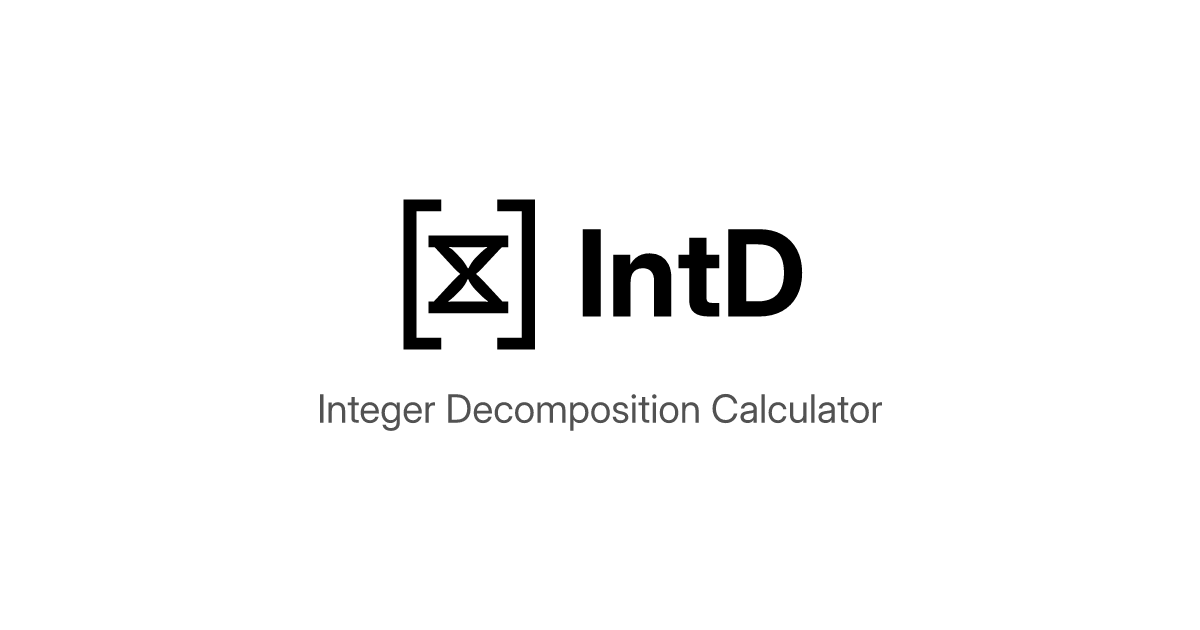
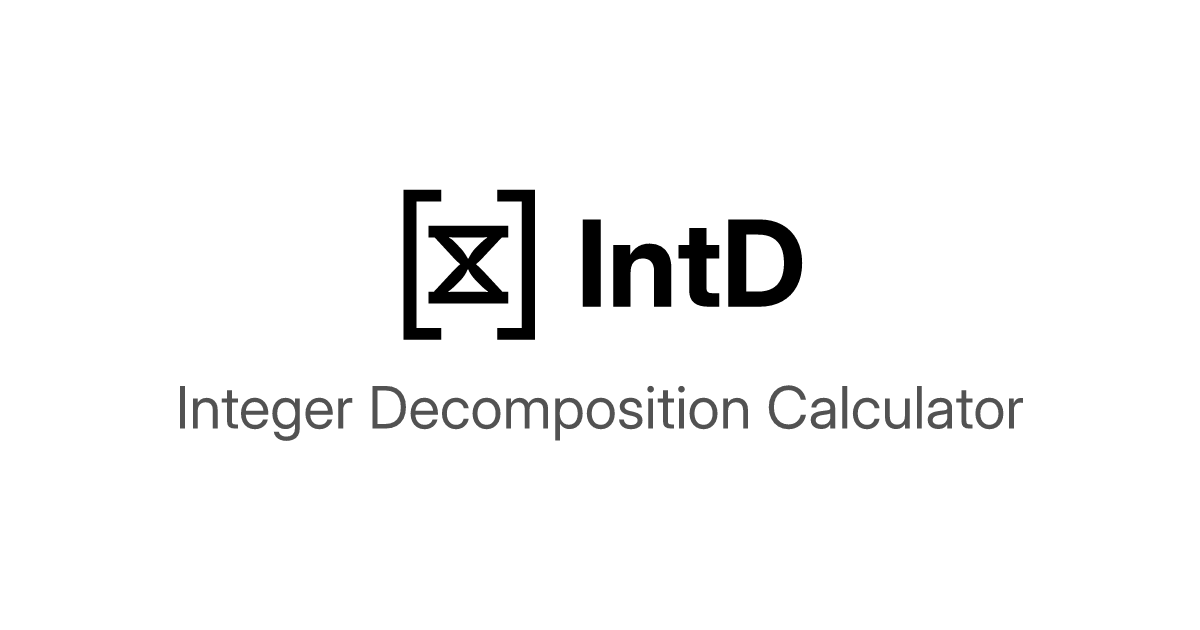
Enlarge OG subtitle again

diff --git a/src/components/layout/footer.tsx b/src/components/layout/footer.tsx
@@ -5,14 +5,24 @@ export function Footer({ className }: React.HTMLAttributes<HTMLElement>) {
   return (
     <footer className={cn("mt-auto w-full", className)}>
       <div className="w-full py-12 text-center font-mono text-muted-foreground text-sm">
-        <a
-          href={AUTHOR_PROFILE_URL}
-          target="_blank"
-          rel="noreferrer"
-          className="block rounded-sm hover:text-foreground focus-visible:outline-2 focus-visible:outline-ring"
-        >
-          Created by ChingRu
-        </a>
+        <div className="flex flex-col items-center gap-2">
+          <a
+            href="https://github.com/rutopio/intd"
+            target="_blank"
+            rel="noreferrer"
+            className="block rounded-sm hover:text-foreground hover:underline hover:underline-offset-4 focus-visible:outline-2 focus-visible:outline-ring"
+          >
+            rutopio/intd
+          </a>
+          <a
+            href={AUTHOR_PROFILE_URL}
+            target="_blank"
+            rel="noreferrer"
+            className="block rounded-sm hover:text-foreground hover:underline hover:underline-offset-4 focus-visible:outline-2 focus-visible:outline-ring"
+          >
+            Created by ChingRu
+          </a>
+        </div>
       </div>
     </footer>
   )

diff --git a/index.html b/index.html
@@ -39,13 +39,13 @@
       property="og:description"
       content="整數拆解計算器：給定一個目標價格，嘗試湊出由便當、飲料、與一元塑膠袋組成的合理解法。"
     />
-    <meta property="og:image" content="https://intd.chingru.com/og.png?v=3" />
+    <meta property="og:image" content="https://intd.chingru.com/og.png?v=4" />
     <meta property="og:image:alt" content="IntD 整數拆解計算器" />
     <meta property="og:image:width" content="1200" />
     <meta property="og:image:height" content="630" />
     <meta property="og:locale" content="zh_TW" />
     <meta name="twitter:card" content="summary_large_image" />
-    <meta name="twitter:image" content="https://intd.chingru.com/og.png?v=3" />
+    <meta name="twitter:image" content="https://intd.chingru.com/og.png?v=4" />
     <meta name="twitter:title" content="IntD - Integer Decomposition Calculator" />
     <meta
       name="twitter:description"

diff --git a/src/lib/render-og-image.ts b/src/lib/render-og-image.ts
@@ -11,7 +11,7 @@ import { INTD_ICON_PATH } from "./brand-icon"
 /** Open Graph recommended 1.91:1 canvas. */
 export const OG_WIDTH = 1200
 export const OG_HEIGHT = 630
-export const OG_IMAGE_VERSION = "3"
+export const OG_IMAGE_VERSION = "4"
 
 const BG_COLOR = "#ffffff"
 const FG_COLOR = "#000000"
@@ -29,7 +29,7 @@ const LOGO = `<g transform="translate(9.28125 0) scale(0.1875)"><path d="${INTD_
 const LOGO_SIZE = 150
 const GAP = 32 // space between logo and brand
 const BRAND_SIZE = 120
-const SUB_SIZE = 39
+const SUB_SIZE = 58.5
 const ROW_SUB_GAP = 42 // vertical space between the logo row and the subtitle
 
 // Inter at 700 weight. Digits in the embedded OG font use the tnum glyphs.
